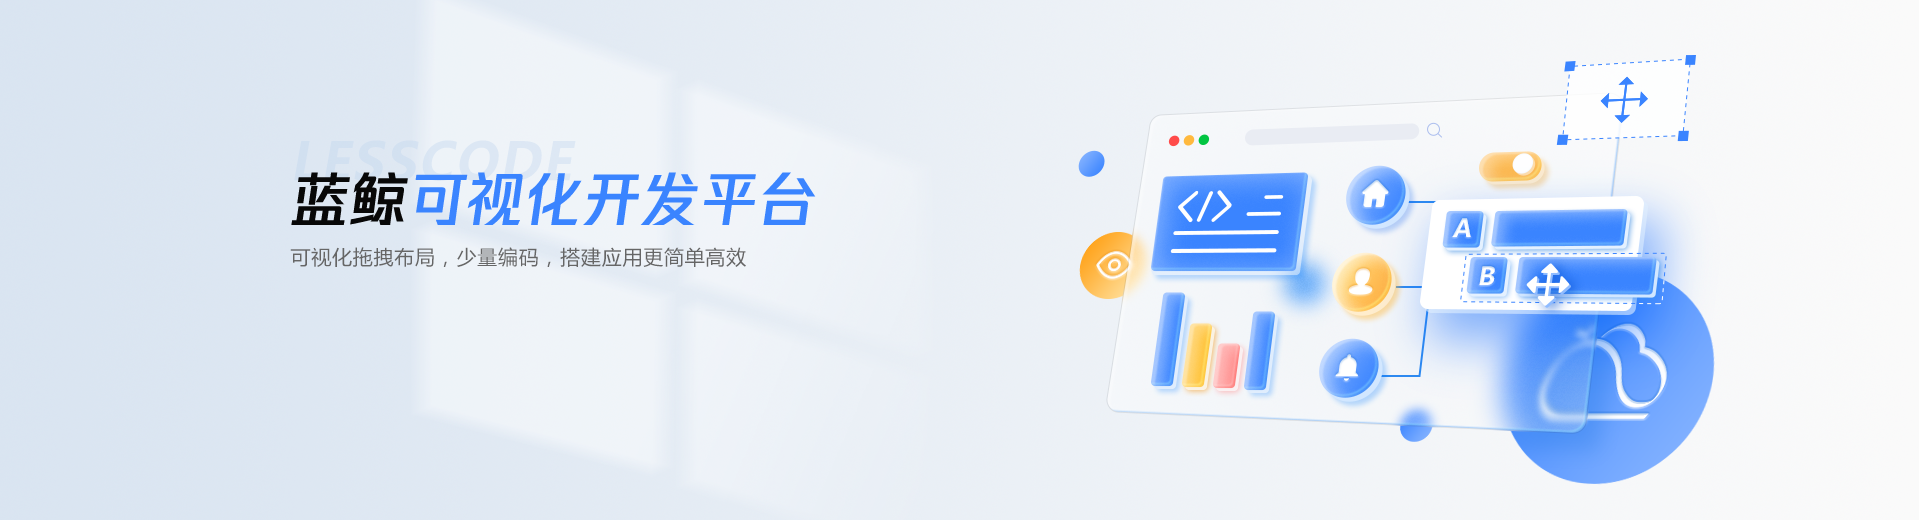
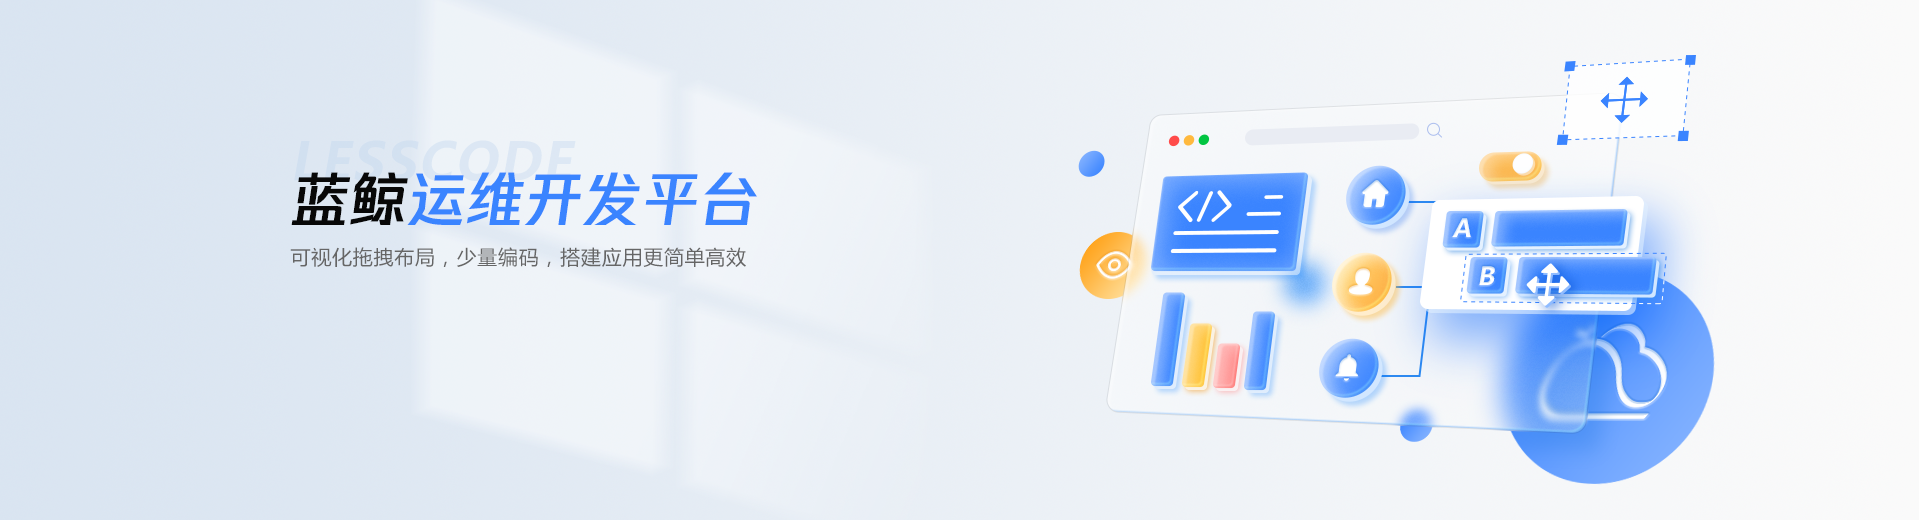
feat: 文案调整

Changed region(s): [[0.1562, 0.3077, 0.4375, 0.4308]]

diff --git a/lib/server/controller/iam-migration-helper.js b/lib/server/controller/iam-migration-helper.js
@@ -54,9 +54,9 @@ async function initSystem () {
         `${IAM_HOST}/api/v1/model/systems`,
         {
             id: IAM_APP_ID,
-            name: global.i18n.t('蓝鲸可视化开发平台'),
+            name: global.i18n.t('蓝鲸运维开发平台'),
             name_en: 'lesscode',
-            description: global.i18n.t('蓝鲸可视化开发平台提供了前端页面在线可视化拖拽组装、配置编辑、源码生成、二次开发等能力。旨在帮助用户通过尽量少的手写代码的方式快速设计和开发 SaaS。'),
+            description: global.i18n.t('蓝鲸运维开发平台提供了前端页面在线可视化拖拽组装、配置编辑、源码生成、二次开发等能力。旨在帮助用户快速设计和开发 SaaS。'),
             description_en: 'BlueKing LessCode provides the front-end page online visual drag-and-drop assembly, configuration editing, source code generation, secondary development and other capabilities. Designed to help users quickly design and develop SaaS with as little handwritten code as possible.',
             clients: 'lesscode',
             provider_config: {
@@ -74,9 +74,9 @@ async function updateSystem () {
     return sendReq(
         `${IAM_HOST}/api/v1/model/systems/${IAM_APP_ID}`,
         {
-            name: global.i18n.t('蓝鲸可视化开发平台_0'),
+            name: global.i18n.t('蓝鲸运维开发平台_0'),
             name_en: 'lesscode',
-            description: global.i18n.t('蓝鲸可视化开发平台提供了前端页面在线可视化拖拽组装、配置编辑、源码生成、二次开发等能力。旨在帮助用户通过尽量少的手写代码的方式快速设计和开发 SaaS。_0'),
+            description: global.i18n.t('蓝鲸运维开发平台提供了前端页面在线可视化拖拽组装、配置编辑、源码生成、二次开发等能力。旨在帮助用户快速设计和开发 SaaS。_0'),
             description_en: 'BlueKing LessCode provides the front-end page online visual drag-and-drop assembly, configuration editing, source code generation, secondary development and other capabilities. Designed to help users quickly design and develop SaaS with as little handwritten code as possible.',
             clients: 'lesscode',
             provider_config: {

diff --git a/lib/client/src/element-materials/materials/vue2/bk/bk-vision/index.js b/lib/client/src/element-materials/materials/vue2/bk/bk-vision/index.js
@@ -41,7 +41,7 @@ export default {
                 isGroup: true,
                 groupChildren: 'share'
             },
-            tips: '图表平台嵌入管理中的仪表盘分享id, 请先到图表平台配置，步骤：<br> 1、选择想要分享的空间或新建空间， 进入空间后新建仪表盘 <br> 2、点击上方嵌入管理、新增嵌入 <br>3、新增时选择想要分享的仪表盘、蓝鲸应用ID选择“当前应用”，并填入“visual-layout”(可视化开发平台的appCode) <br>4、下一步嵌入模式选择“JS-SDK嵌入”， 提交后返回列表页开启发布分享 <br> 5、回到LessCode平台选择所需的分享'
+            tips: '图表平台嵌入管理中的仪表盘分享id, 请先到图表平台配置，步骤：<br> 1、选择想要分享的空间或新建空间， 进入空间后新建仪表盘 <br> 2、点击上方嵌入管理、新增嵌入 <br>3、新增时选择想要分享的仪表盘、蓝鲸应用ID选择“当前应用”，并填入“visual-layout”(运维开发平台的appCode) <br>4、下一步嵌入模式选择“JS-SDK嵌入”， 提交后返回列表页开启发布分享 <br> 5、回到LessCode平台选择所需的分享'
         }
         // waterMark: {
         //     type: 'string',

diff --git a/lib/client/src/views/project/basic.vue b/lib/client/src/views/project/basic.vue
@@ -9,7 +9,7 @@
                 <bk-form-item :label="$t('应用ID：')">
                     {{projectDetail.projectCode}}
                 </bk-form-item>
-                <bk-form-item :label="$t('form_绑定蓝鲸应用模块：')" :desc="{ content: $t('必须绑定“源码管理”方式为“蓝鲸可视化开发平台提供源码包”的蓝鲸应用模块,绑定后不能修改'), maxWidth: 400 }">
+                <bk-form-item :label="$t('form_绑定蓝鲸应用模块：')" :desc="{ content: $t('必须绑定“源码管理”方式为“蓝鲸运维开发平台提供源码包”的蓝鲸应用模块,绑定后不能修改'), maxWidth: 400 }">
                     <app-module-select :can-edit="true"></app-module-select>
                 </bk-form-item>
                 <bk-form-item :label="$t('form_应用简介：')">

diff --git a/lib/server/middleware/auth.js b/lib/server/middleware/auth.js
@@ -125,7 +125,7 @@ module.exports = () => {
                             copyFrom: null,
                             projectCode: 'demo' + randomString(5),
                             projectName: ctx.session.userInfo.bk_username + global.i18n.t('Demo应用'),
-                            projectDesc: global.i18n.t('欢迎使用蓝鲸智云可视化开发平台，这是为您默认创建的Demo应用，创建该LessCode应用的同时，已在“PaaS平台-开发者中心”创建了同名SaaS。')
+                            projectDesc: global.i18n.t('欢迎使用蓝鲸智云运维开发平台，这是为您默认创建的Demo应用，创建该LessCode应用的同时，已在“PaaS平台-开发者中心”创建了同名SaaS。')
                         }
                     })
                 } else {

diff --git a/lib/server/model/iam-app-perm.js b/lib/server/model/iam-app-perm.js
@@ -25,9 +25,9 @@ module.exports = {
             const { id: iamAppPermId } = await transactionalEntityManager.save(IamAppPerm, {
                 projectId: projectId,
                 systemId: systemId,
-                systemName: global.i18n.t('蓝鲸可视化开发平台-{{n}}', { n: projectName }),
+                systemName: global.i18n.t('蓝鲸运维开发平台-{{n}}', { n: projectName }),
                 systemNameEn: `lesscode-${projectCode}`,
-                systemDesc: global.i18n.t('蓝鲸可视化开发平台-{{n}}', { n: projectName }),
+                systemDesc: global.i18n.t('蓝鲸运维开发平台-{{n}}', { n: projectName }),
                 systemDescEn: `lesscode-${projectCode}`,
                 systemClients: systemId,
                 systemProviderConfig: {

diff --git a/lib/server/controller/db-migration-helper.js b/lib/server/controller/db-migration-helper.js
@@ -2019,9 +2019,9 @@ async function initIamAppPermData (apiName) {
                 return {
                     projectId: id,
                     systemId: systemId,
-                    systemName: global.i18n.t('蓝鲸可视化开发平台-{{n}}', { n: projectName }),
+                    systemName: global.i18n.t('蓝鲸运维开发平台-{{n}}', { n: projectName }),
                     systemNameEn: `lesscode-${projectCode}`,
-                    systemDesc: global.i18n.t('蓝鲸可视化开发平台-{{n}}', { n: projectName }),
+                    systemDesc: global.i18n.t('蓝鲸运维开发平台-{{n}}', { n: projectName }),
                     systemDescEn: `lesscode-${projectCode}`,
                     systemClients: systemId,
                     systemProviderConfig: {

diff --git a/lib/client/src/components/project/app-module-select.vue b/lib/client/src/components/project/app-module-select.vue
@@ -85,7 +85,7 @@
                 return {
                     placement: 'top',
                     width: '284px',
-                    content: this.$t('必须绑定“源码管理”方式为“蓝鲸可视化开发平台提供源码包”的蓝鲸应用模块，')`<a target="_blank" href="${this.createLinkUrl}" style="cursor: pointer;color: #3a84ff">` + this.$t('跳转创建') + '</a>'
+                    content: this.$t('必须绑定“源码管理”方式为“蓝鲸运维开发平台提供源码包”的蓝鲸应用模块，')`<a target="_blank" href="${this.createLinkUrl}" style="cursor: pointer;color: #3a84ff">` + this.$t('跳转创建') + '</a>'
                 }
             }
         },

diff --git a/lib/client/src/views/help/index.vue b/lib/client/src/views/help/index.vue
@@ -133,13 +133,6 @@
                             title: window.i18n.t('页面模板使用指引'),
                             name: 'template-page'
                         }]
-                    }, {
-                        title: window.i18n.t('实战案例'),
-                        name: 'case',
-                        childs: [{
-                            title: window.i18n.t('课程实战文档和视频'),
-                            name: 'courses'
-                        }]
                     }
                 ]
             }

diff --git a/lib/client/src/views/project/release/publish.vue b/lib/client/src/views/project/release/publish.vue
@@ -412,7 +412,7 @@
                 return {
                     placement: 'top',
                     width: '284px',
-                    content: window.i18n.t('必须绑定“源码管理”方式为“蓝鲸可视化开发平台提供源码包”的蓝鲸应用模块')
+                    content: window.i18n.t('必须绑定“源码管理”方式为“蓝鲸运维开发平台提供源码包”的蓝鲸应用模块')
                 }
             },
             showReleaseTips () {

diff --git a/lib/client/index.html b/lib/client/index.html
@@ -16,7 +16,7 @@
         <link rel="shortcut icon" href="<%= process.env.BK_STATIC_URL %>/static/images/logo.png" type="image/x-icon" />
         <meta name="viewport" content="width=device-width, initial-scale=1.0">
         <meta charset="utf-8">
-        <title>可视化开发平台 | 腾讯蓝鲸智云</title>
+        <title>运维开发平台 | 腾讯蓝鲸智云</title>
         <script>
             var customCompontensPlugin = []
             function register(callback) {

diff --git a/lib/client/preview.html b/lib/client/preview.html
@@ -16,7 +16,7 @@
         <link rel="shortcut icon" href="<%= process.env.BK_STATIC_URL %>/static/images/logo.png" type="image/x-icon" />
         <meta charset="utf-8">
         <meta name="viewport" content="width=device-width, initial-scale=1.0">
-        <title>可视化开发平台 | 腾讯蓝鲸智云</title>
+        <title>运维开发平台 | 腾讯蓝鲸智云</title>
         <style>
             html, body, #app {
                 height: 100%;

diff --git a/lib/client/src/views/project/release/history.vue b/lib/client/src/views/project/release/history.vue
@@ -157,7 +157,7 @@
                 }
             },
             sourceFormatter (obj, con, val) {
-                return val === 'FROM_V3' ? window.i18n.t('PaaS平台') : window.i18n.t('可视化开发平台')
+                return val === 'FROM_V3' ? window.i18n.t('PaaS平台') : window.i18n.t('运维开发平台')
             },
             envFormatter (obj, con, val) {
                 return this.envMap[val] || val
